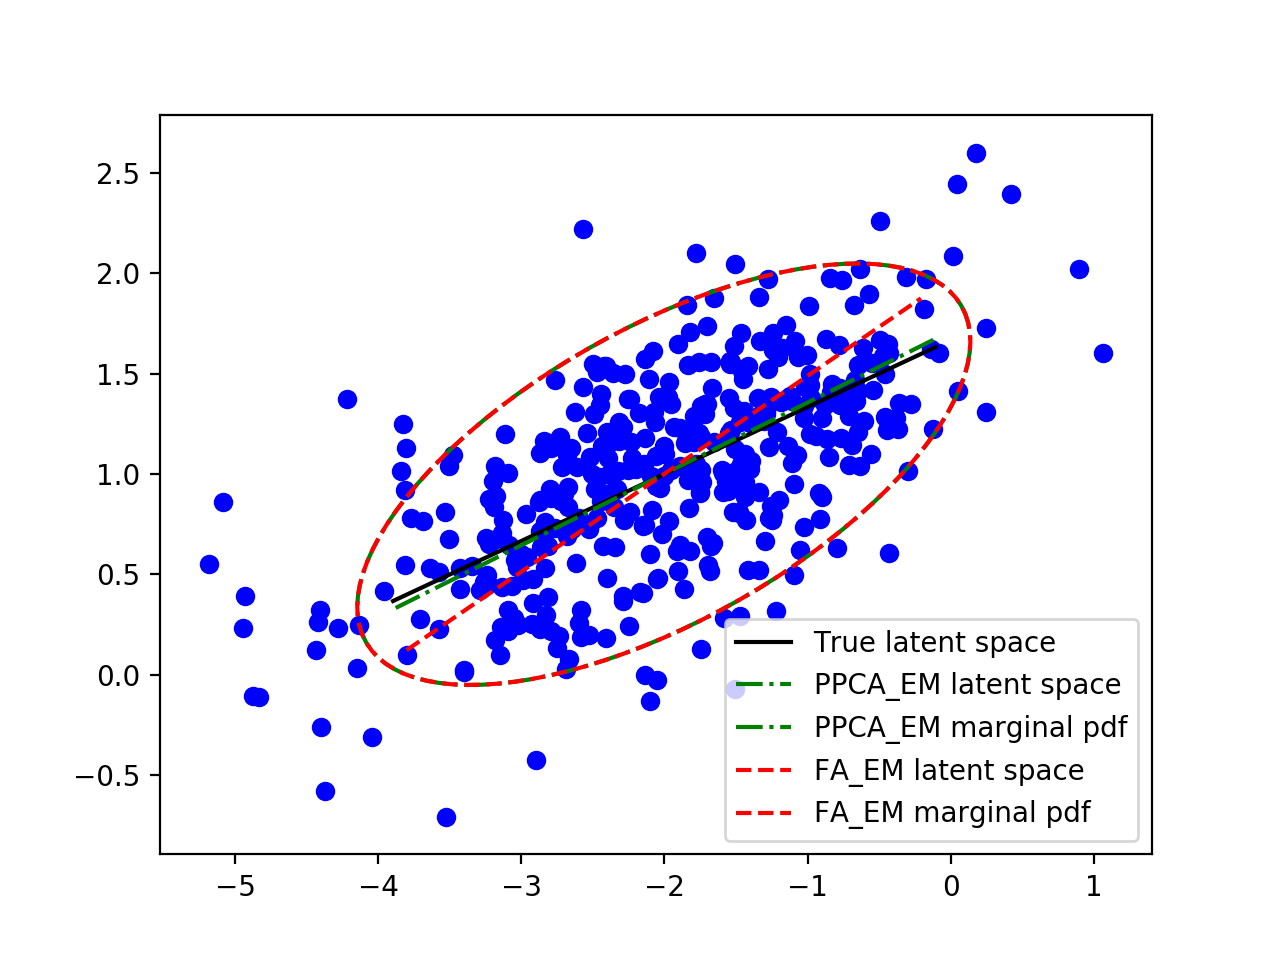
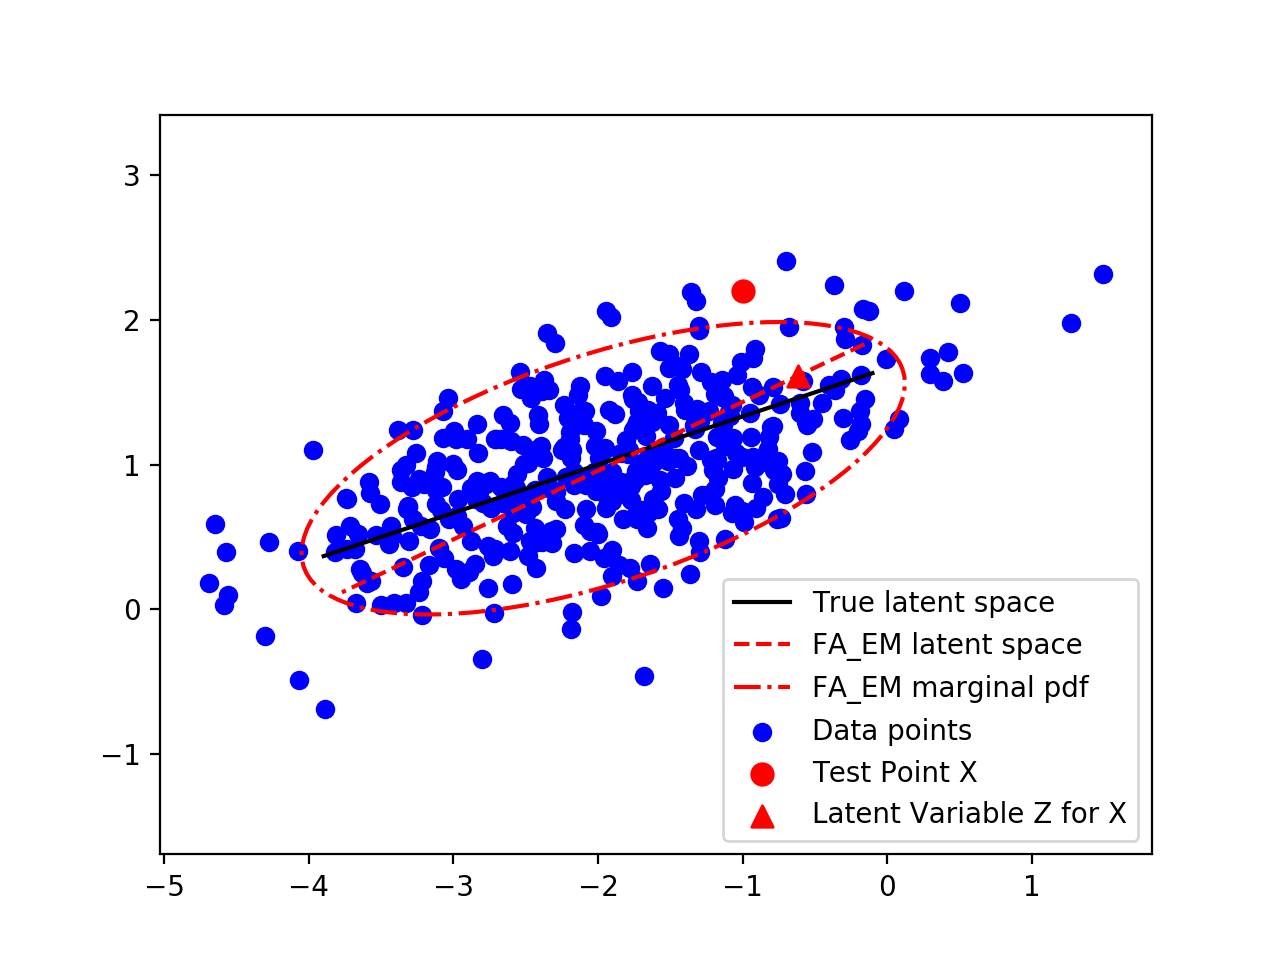
change figures for toy examples

diff --git a/expToyData_mixture.py b/expToyData_mixture.py
@@ -71,13 +71,14 @@ if __name__ == '__main__':
 	ax.scatter(data2[0],data2[1], c='r', marker='o')
 
 	# Inference part
-	X = np.array([[-1.5],[-2.0]])
-	ax.scatter(X[0],X[1], c='k', marker='o')
+	X = np.array([[-1.0],[-1.0]])
+	# X = np.array([[-1.5],[-2.0]])
+	ax.scatter(X[0],X[1],s=[60], c='k', marker='o')
 	Z, ZinXSpace = mfa_inference(X,mu,W,psi)
 	# 	Z, (M,K,N)
 	#	ZinXSpace, (M,D,N)
 	ZinXSpace = ZinXSpace.T.reshape(2,-1)
-	ax.scatter(ZinXSpace[0],ZinXSpace[1], c='k', marker='^')
+	ax.scatter(ZinXSpace[0],ZinXSpace[1],s=[60], c='k', marker='^')
 
 	plt.legend(['MFA1','MFA2','Data Point1','Data Point2','Test Point X','Latent Variables Z for X'])
 
@@ -90,5 +91,5 @@ if __name__ == '__main__':
 	# plt.plot(line_points2_orig[0,:],line_points2_orig[1,:],'k--')
 
 	plt.axis('equal')
-	plt.grid('on')
+	# plt.grid('on')
 	plt.show()

diff --git a/expToyData.py b/expToyData.py
@@ -67,9 +67,9 @@ if __name__ == '__main__':
 
 	# Inference part
 	X = np.array([[-1.],[2.2]])
-	ax.scatter(X[0],X[1], c='r', marker='o')
+	ax.scatter(X[0],X[1],s=[60], c='r', marker='o')
 	Z, ZinXSpace = fa_inference(X,mu_fa,W_fa,psi)
-	ax.scatter(ZinXSpace[0],ZinXSpace[1], c='r', marker='^')
+	ax.scatter(ZinXSpace[0],ZinXSpace[1],s=[60], c='r', marker='^')
 
 	# plt.legend(['Data points','True latent space','PPCA_EM latent space','PPCA_EM marginal pdf','FA_EM latent space','FA_EM marginal pdf','Data points','Test Point X','Latent Variable Z for X'])
 	plt.legend(['True latent space','FA_EM latent space','FA_EM marginal pdf','Data points','Test Point X','Latent Variable Z for X'])
